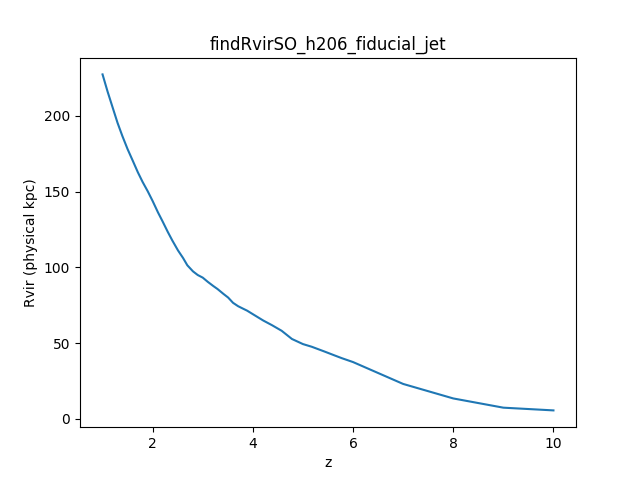
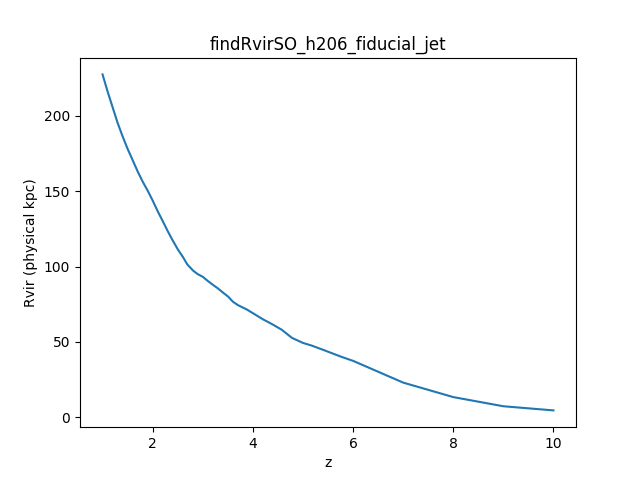
run jobsubmit_quest_findRvirsim.sh for z<10 using most accurate halo centering parameters

diff --git a/scripts/halo_analysis_scripts.py b/scripts/halo_analysis_scripts.py
@@ -349,8 +349,8 @@ def load_allparticles(snapdir, snapnum, particle_types=[0,1,2,4,5], keys_to_extr
         print(f"Loading redshift {part[particle_types[0]]['Redshift']}")
 
     # posC = halo_center_wrapper(part[ptype_centering])[0]
-    # posC = halo_center_wrapper(part[ptype_centering], shrinkpercent=2.5, minparticles=1000, initialradiusfactor=1)[0]
-    posC = halo_center_wrapper(part[ptype_centering], shrinkpercent=10, minparticles=1000, initialradiusfactor=1)[0]
+    posC = halo_center_wrapper(part[ptype_centering], shrinkpercent=2.5, minparticles=1000, initialradiusfactor=1)[0] #most accurate parameters
+    # posC = halo_center_wrapper(part[ptype_centering], shrinkpercent=10, minparticles=1000, initialradiusfactor=1)[0] #pretty accurate parameters and 2x faster than shrinkpercent=2.5 (some minor problems, e.g. a small dip at z=6 for h29_noAGNfb)
 
     if ahf_path:
         _, Rvir = load_AHF('', snapnum, part[particle_types[0]]['Redshift'], hubble=part[particle_types[0]]['HubbleParam'], ahf_path=ahf_path, extra_names_to_read=[])
